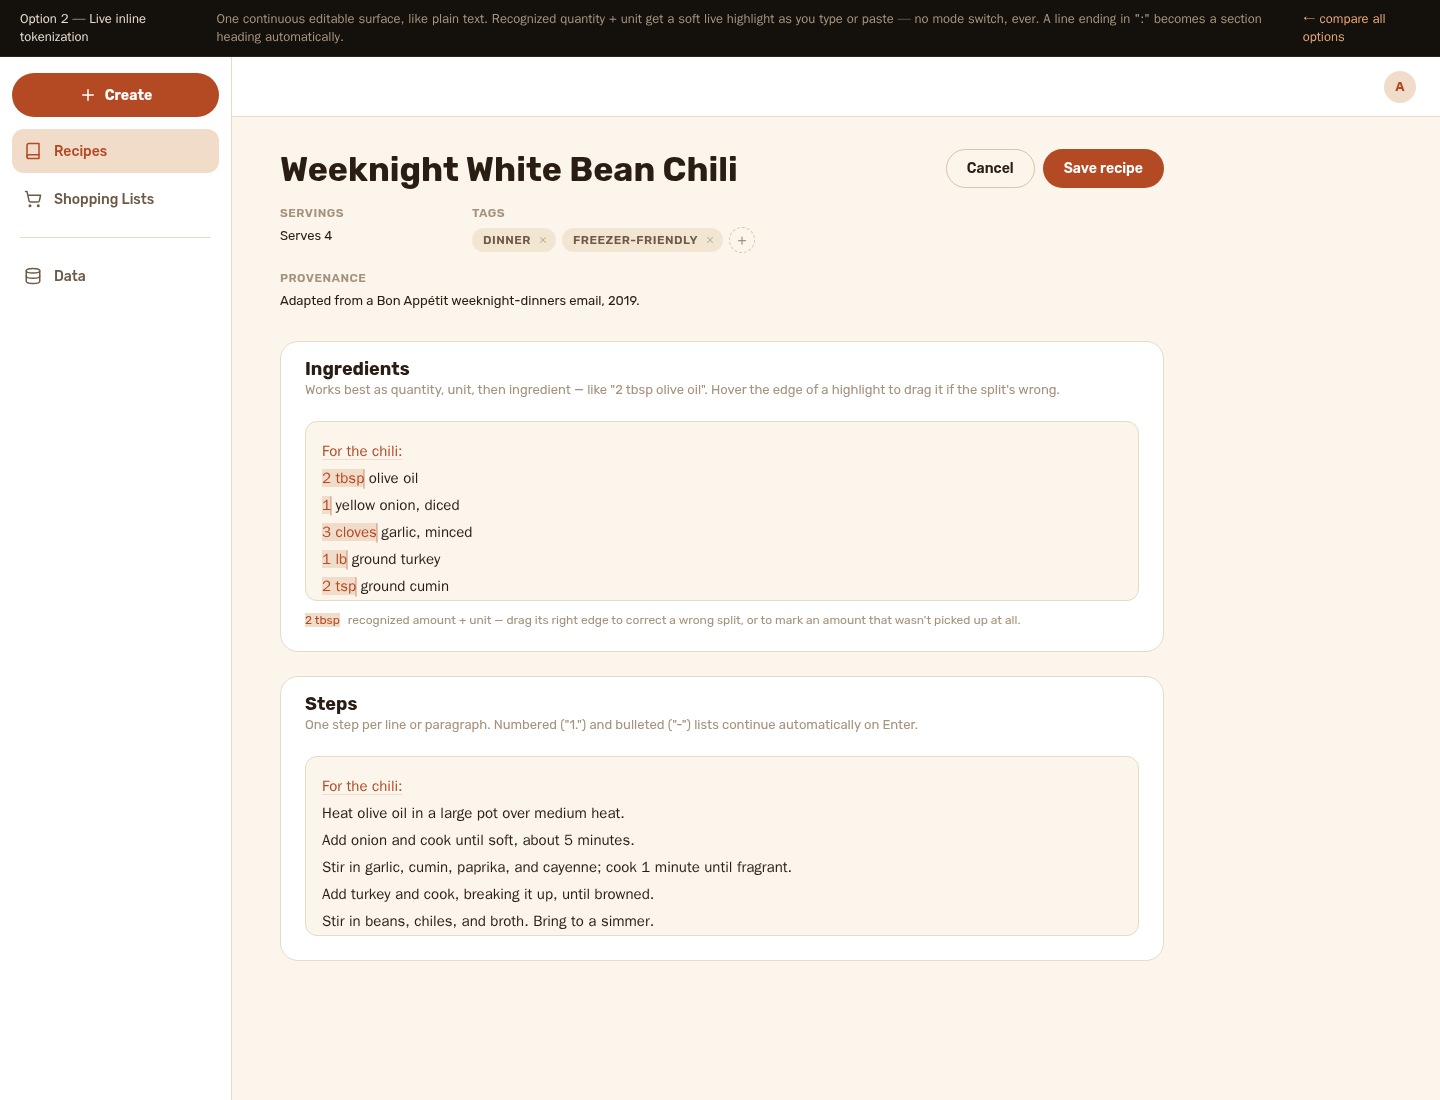
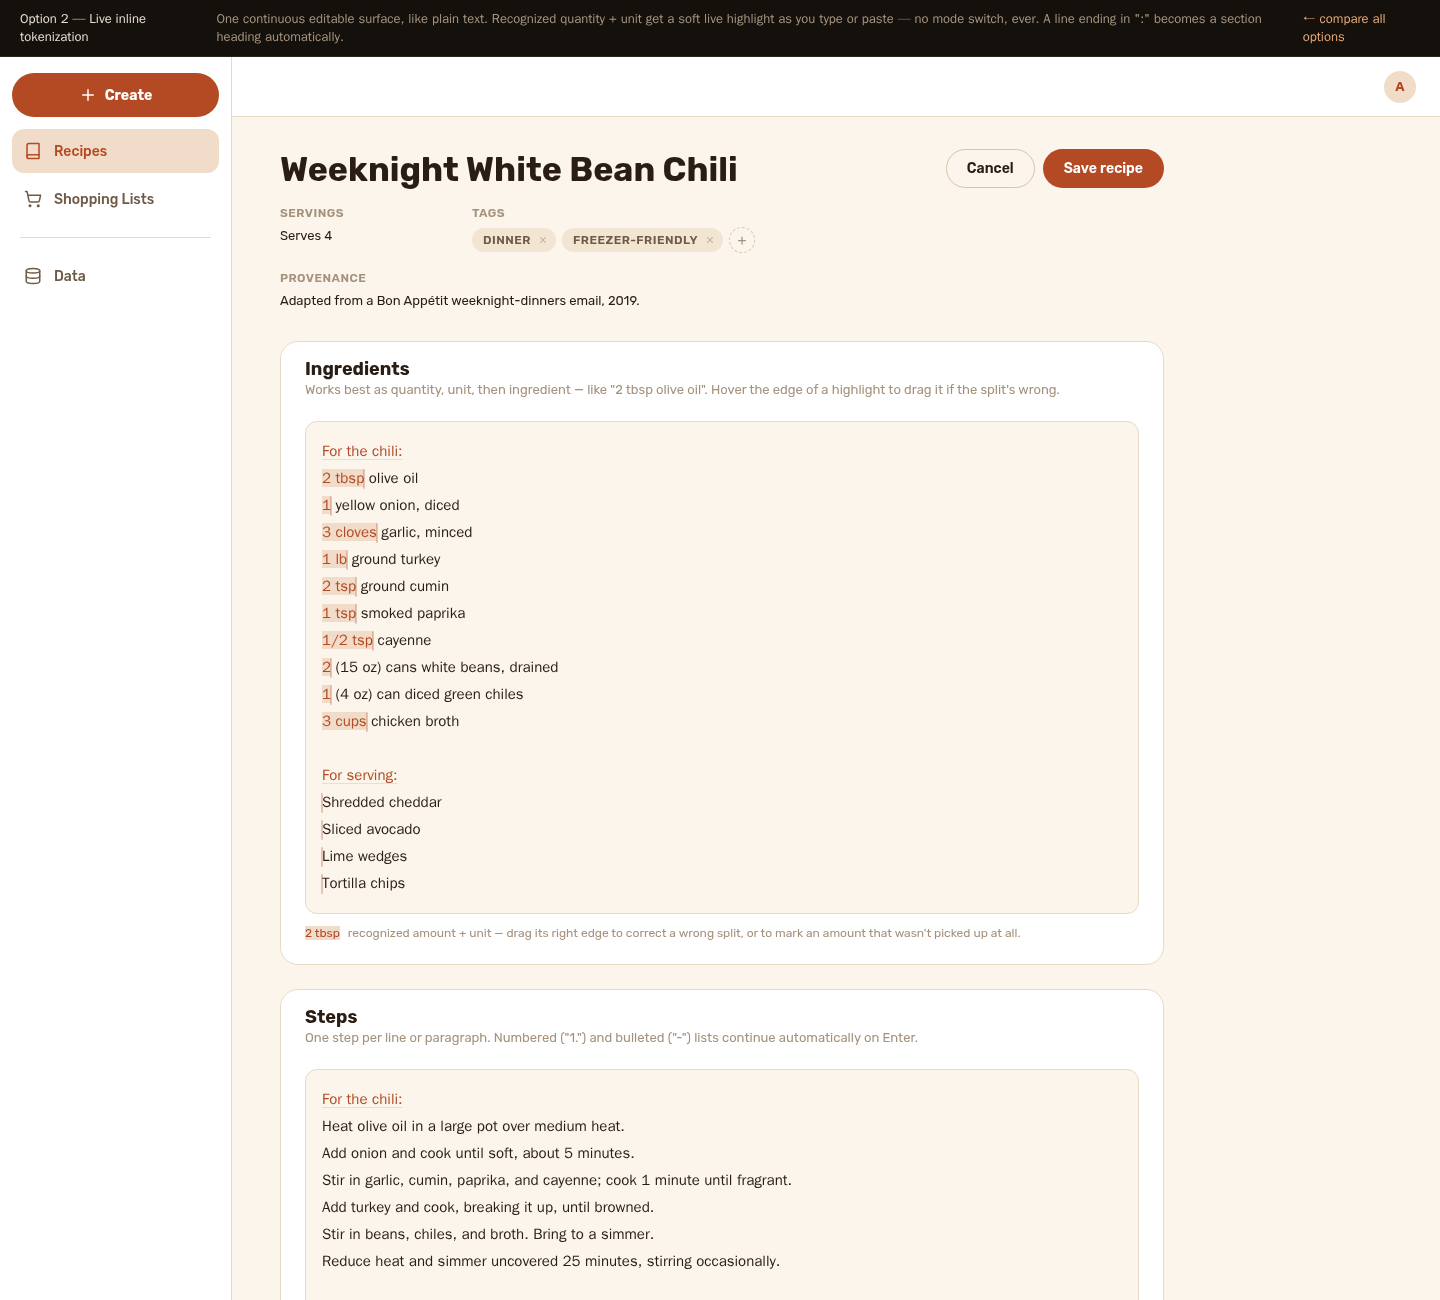
DAMN-2 mockups: auto-growing fields, responsive mobile layout
Owner feedback: no internal scrollbar on Ingredients/Steps (a small
fixed-height scrolling box hides the list from a glance) — and mockups
of how the whole entry form looks on mobile.

- Ingredients/Steps fields now grow to fit their content instead of
  scrolling internally. Required restructuring the three stacked layers:
  the textarea is normal flow again (the sizing driver, auto-grown via
  scrollHeight on every keystroke) instead of position:absolute, with
  the overlay/handle layers stacked on top via inset:0 so they still
  track its exact box with no separate height bookkeeping. Dropped the
  now-dead scroll-sync listeners this made unnecessary.
- Added a real responsive layout at the app's actual mobile breakpoint
  (640px, matching NavRail.tsx): a fixed bottom tab bar + Create FAB
  replaces the rail, matching the real component's markup/classes/
  icons; the editbar stacks (title, then fields, then Cancel/Save);
  drag-handle touch targets widen to 34px (a 10px target is fine for a
  mouse, not a fingertip — same 44px-hit-area convention the rest of
  the app already follows); the title font drops a step since
  --text-3xl bold doesn't fit a typical title at phone width.
- Added real touch support for the drag-to-adjust boundary handles —
  touchstart/touchmove/touchend/touchcancel sharing the exact same
  start/update/end drag logic mouse events use, { passive: false } so
  preventDefault can stop the page from scrolling mid-drag, plus
[…]

diff --git a/docs/features/DAMN-2-recipe-entry-and-versioning/mockups/entry-option-2-live-inline.html b/docs/features/DAMN-2-recipe-entry-and-versioning/mockups/entry-option-2-live-inline.html
@@ -122,16 +122,26 @@
    * spans. Re-rendering that layer on every keystroke never touches the real cursor,
    * because the cursor was never anything but the textarea's own.
    */
-  .token-field { position: relative; min-height: 180px; border: 1px solid var(--color-border); border-radius: var(--radius-md); background: var(--color-bg-primary); overflow: hidden; }
+  /*
+   * Grows to fit its content instead of scrolling internally (owner feedback —
+   * a small fixed-height box that scrolls hides the ingredient list from a
+   * glance). The textarea is the sizing driver: it's normal flow now, not
+   * absolutely positioned, so .token-field's own height (and therefore the
+   * overlay/handles layers stacked on top via inset:0) just follows however
+   * tall the textarea's content actually makes it — autoGrow() (in the script)
+   * keeps its explicit height in sync with scrollHeight on every keystroke.
+   */
+  .token-field { position: relative; min-height: 90px; border: 1px solid var(--color-border); border-radius: var(--radius-md); background: var(--color-bg-primary); }
   .token-field:focus-within { outline: 2px solid var(--color-focus); outline-offset: 1px; }
   .token-field .layer {
-    position: absolute; inset: 0; margin: 0; padding: var(--space-4); border: none;
+    margin: 0; padding: var(--space-4); border: none;
     font: var(--text-base)/1.8 var(--font-sans); white-space: pre-wrap; word-wrap: break-word;
-    box-sizing: border-box; overflow: auto;
+    box-sizing: border-box;
   }
+  .token-field .overlay, .token-field .handles { position: absolute; inset: 0; overflow: hidden; }
   .token-field .overlay { color: var(--color-text-primary); pointer-events: none; }
   .token-field textarea.input-layer {
-    resize: none; background: transparent;
+    display: block; width: 100%; resize: none; overflow: hidden; background: transparent;
     /* Both are needed: WebKit (Safari) can otherwise let -webkit-text-fill-color's
        UA default win over `color`, which also swallows the caret — not just the
        text — since WebKit ties caret rendering to the fill color, not `color`
@@ -181,7 +191,7 @@
    */
   .token-field .handles { pointer-events: none; }
   .tok-handle {
-    position: absolute; width: 10px; transform: translateX(-5px);
+    position: absolute; width: 10px; transform: translateX(-5px); touch-action: none;
     cursor: ew-resize; pointer-events: auto; opacity: 0.28; transition: opacity var(--dur-quick) var(--ease-out);
   }
   .tok-handle::after {
@@ -201,6 +211,57 @@
 
   .legend { display: flex; align-items: center; gap: var(--space-2); margin-top: var(--space-3); color: var(--color-text-tertiary); font-size: var(--text-xs); }
   .legend .tok-amt { font-size: var(--text-xs); }
+
+  /* ---- mobile (<=640px, matches NavRail.tsx's real MOBILE_MEDIA_QUERY cutoff) --- */
+  .tabbar { display: none; }
+  @media (max-width: 640px) {
+    .rail { display: none; }
+    .tabbar {
+      --tabbar-safe-bottom: env(safe-area-inset-bottom, 0);
+      position: fixed; left: 0; right: 0; bottom: 0; z-index: 10;
+      height: calc(62px + var(--tabbar-safe-bottom));
+      display: flex; align-items: stretch;
+      border-top: 1px solid var(--color-border); background: var(--color-bg-secondary);
+      padding-bottom: var(--tabbar-safe-bottom);
+    }
+    .tab {
+      flex: 1; display: flex; flex-direction: column; align-items: center; justify-content: center;
+      gap: 3px; color: var(--color-text-tertiary); font-weight: var(--weight-medium); font-size: 11px;
+      text-decoration: none;
+    }
+    .tab.tab-active { color: var(--color-accent); }
+    .tab svg { width: 22px; height: 22px; flex: none; }
+    .fab-wrap { position: absolute; right: var(--space-4); bottom: var(--fab-offset-bottom); }
+    .fab {
+      width: var(--fab-size); height: var(--fab-size); border: none; border-radius: var(--radius-full);
+      background: var(--color-accent); color: var(--color-text-on-accent);
+      display: flex; align-items: center; justify-content: center; cursor: pointer;
+    }
+    .fab:hover { background: var(--color-accent-hover); }
+    .fab svg { width: 24px; height: 24px; }
+
+    .app { grid-template-columns: 1fr; grid-template-areas: 'topbar' 'main'; }
+    .main {
+      max-width: 100%; padding: var(--space-5) var(--space-4);
+      /* Clears the fixed FAB the same way AppShell.module.css does — bottom
+         padding derived from the FAB's own tokens so its footprint and the
+         scroll clearance for it can't drift apart. */
+      padding-bottom: calc(var(--fab-offset-bottom) + var(--fab-size) + var(--space-4));
+    }
+    .editbar { flex-direction: column; align-items: stretch; }
+    .actions { justify-content: flex-end; margin-top: var(--space-2); }
+    /* --text-3xl bold clips or forces the input to scroll internally for a
+       normal-length recipe title on a phone-width screen — a single-line <input>
+       can't wrap the way a heading would. Full title stays in the value either
+       way (nothing is lost, same as any text input scrolling past its width),
+       this just makes a typical title actually fit. */
+    .title-input { font-size: var(--text-xl); }
+
+    /* A precise mouse pointer is comfortable with a 10px target; a fingertip
+       isn't — widen the touch hit area without changing the thin visual marker
+       (::after stays a 2px line, centered, regardless of the box it sits in). */
+    .tok-handle { width: 34px; transform: translateX(-17px); }
+  }
 </style>
 </head>
 <body>
@@ -219,6 +280,18 @@
     <div class="divider"></div>
     <a class="navItem" href="#"><svg viewBox="0 0 24 24" fill="none" stroke="currentColor" stroke-width="2" stroke-linecap="round" stroke-linejoin="round"><ellipse cx="12" cy="5" rx="9" ry="3"/><path d="M3 5v14a9 3 0 0 0 18 0V5"/><path d="M3 12a9 3 0 0 0 18 0"/></svg>Data</a>
   </nav>
+
+  <!-- Mobile-only, shown by CSS at <=640px (matches NavRail.tsx's real breakpoint) —
+       a fixed bottom tab bar with an overlapping Create FAB, replacing the rail. -->
+  <nav class="tabbar" aria-label="Primary">
+    <a class="tab tab-active" href="#"><svg viewBox="0 0 24 24" fill="none" stroke="currentColor" stroke-width="2" stroke-linecap="round" stroke-linejoin="round"><path d="M4 19.5A2.5 2.5 0 0 1 6.5 17H20"/><path d="M6.5 2H20v20H6.5A2.5 2.5 0 0 1 4 19.5v-15A2.5 2.5 0 0 1 6.5 2z"/></svg>Recipes</a>
+    <a class="tab" href="#"><svg viewBox="0 0 24 24" fill="none" stroke="currentColor" stroke-width="2" stroke-linecap="round" stroke-linejoin="round"><circle cx="8" cy="21" r="1"/><circle cx="19" cy="21" r="1"/><path d="M2.05 2.05h2l2.66 12.42a2 2 0 0 0 2 1.58h9.78a2 2 0 0 0 1.95-1.57l1.65-7.43H5.12"/></svg>Shopping</a>
+    <a class="tab" href="#"><svg viewBox="0 0 24 24" fill="none" stroke="currentColor" stroke-width="2" stroke-linecap="round" stroke-linejoin="round"><ellipse cx="12" cy="5" rx="9" ry="3"/><path d="M3 5v14a9 3 0 0 0 18 0V5"/><path d="M3 12a9 3 0 0 0 18 0"/></svg>Data</a>
+    <div class="fab-wrap">
+      <button class="fab" type="button" aria-label="Create"><svg viewBox="0 0 24 24" fill="none" stroke="currentColor" stroke-width="2" stroke-linecap="round" stroke-linejoin="round"><path d="M12 5v14"/><path d="M5 12h14"/></svg></button>
+    </div>
+  </nav>
+
   <div class="topbar"><div class="spacer"></div><div class="avatar">A</div></div>
 
   <main class="main">
@@ -449,20 +522,27 @@ For serving:
     }
   }
 
+  /** Grows the textarea to fit its content — no internal scrollbar, ever. Reset to
+   * 'auto' first so shrinking (e.g. after deleting a line) is measured correctly;
+   * scrollHeight only ever reports "how tall would this need to be," never shrinks
+   * the element on its own. */
+  function autoGrow(textarea) {
+    textarea.style.height = 'auto';
+    textarea.style.height = textarea.scrollHeight + 'px';
+  }
+
   function wireField(inputId, overlayId, seed, isIngredient, field, handlesId) {
     const input = document.getElementById(inputId);
     const overlay = document.getElementById(overlayId);
     const handles = handlesId ? document.getElementById(handlesId) : null;
     input.value = seed;
     renderOverlay(overlay, seed, isIngredient, field, handles);
+    autoGrow(input);
     // The textarea is the only editable surface — the browser owns cursor/selection
     // entirely. Re-rendering the overlay on every keystroke never touches it.
-    input.addEventListener('input', () => renderOverlay(overlay, input.value, isIngredient, field, handles));
-    // Layers are stacked, not scrolled together automatically — keep the highlight
-    // (and handle) layers' scroll position matched to what's actually being typed in.
-    input.addEventListener('scroll', () => {
-      overlay.scrollTop = input.scrollTop;
-      if (handles) handles.scrollTop = input.scrollTop;
+    input.addEventListener('input', () => {
+      autoGrow(input);
+      renderOverlay(overlay, input.value, isIngredient, field, handles);
     });
   }
 
@@ -518,26 +598,26 @@ For serving:
 
   // Dragging a boundary handle: delegated, since renderOverlay rebuilds the handle
   // DOM on every keystroke and every drag step — a per-node listener would go stale
-  // the moment anything re-renders.
+  // the moment anything re-renders. Mouse and touch share this same core logic —
+  // only how the starting handle and the live coordinate are read differs, which
+  // is exactly what's on a phone this needs: the drag itself, and the fix for the
+  // cursor artifacts, are the same gesture either way.
   let dragState = null;
-
   let dragCaptureEl = null;
 
-  document.addEventListener('mousedown', (e) => {
-    const handle = e.target.closest('.tok-handle');
-    if (!handle) return;
-    e.preventDefault();
+  function startDrag(handle) {
     dragState = { field: handle.closest('.handles').id.replace('-handles', ''), lineIndex: Number(handle.dataset.line) };
     document.body.classList.add('tok-dragging');
-    // See the .drag-capture CSS comment: keeps the pointer over one stable element
-    // for the whole drag so the cursor icon can't flicker as the handle/overlay DOM
-    // gets rebuilt underneath it on every move.
+    // See the .drag-capture CSS comment: keeps the pointer/touch over one stable
+    // element for the whole drag so the cursor icon (mouse) or scroll gesture
+    // (touch) can't get confused as the handle/overlay DOM rebuilds underneath it
+    // on every move.
     dragCaptureEl = document.createElement('div');
     dragCaptureEl.className = 'drag-capture';
     document.body.appendChild(dragCaptureEl);
-  });
+  }
 
-  document.addEventListener('mousemove', (e) => {
+  function updateDrag(clientX) {
     if (!dragState) return;
     const { field, lineIndex } = dragState;
     const input = document.getElementById(field + '-input');
@@ -549,26 +629,59 @@ For serving:
     if (!lineEl || !words.length) return;
     // Snap to the nearest word boundary, never mid-word — every real recipe line's
     // amount/ingredient split falls on a word boundary, so this keeps the gesture
-    // fast without needing sub-word precision from the user.
+    // fast without needing sub-word (or, on touch, sub-fingertip) precision.
     let best = 0, bestDist = Infinity;
     for (let b = 0; b <= words.length; b++) {
       const charOffset = b === 0 ? 0 : words[b - 1].end;
       const x = xAtOffset(lineEl, charOffset);
       if (x == null) continue;
-      const dist = Math.abs(x - e.clientX);
+      const dist = Math.abs(x - clientX);
       if (dist < bestDist) { bestDist = dist; best = b; }
     }
     setOverride(field, lineIndex, best);
     renderOverlay(overlayEl, input.value, true, field, handlesEl);
-  });
+  }
 
-  document.addEventListener('mouseup', () => {
-    if (dragState) {
-      dragState = null;
-      document.body.classList.remove('tok-dragging');
-      if (dragCaptureEl) { dragCaptureEl.remove(); dragCaptureEl = null; }
-    }
+  function endDrag() {
+    if (!dragState) return;
+    dragState = null;
+    document.body.classList.remove('tok-dragging');
+    if (dragCaptureEl) { dragCaptureEl.remove(); dragCaptureEl = null; }
+  }
+
+  document.addEventListener('mousedown', (e) => {
+    const handle = e.target.closest('.tok-handle');
+    if (!handle) return;
+    e.preventDefault();
+    startDrag(handle);
   });
+  document.addEventListener('mousemove', (e) => updateDrag(e.clientX));
+  document.addEventListener('mouseup', endDrag);
+
+  // { passive: false } is required on both — the whole point is to preventDefault
+  // so the page doesn't scroll or select text while a boundary drag is in
+  // progress, and passive listeners aren't allowed to call preventDefault at all.
+  document.addEventListener(
+    'touchstart',
+    (e) => {
+      const handle = e.target.closest('.tok-handle');
+      if (!handle) return;
+      e.preventDefault();
+      startDrag(handle);
+    },
+    { passive: false },
+  );
+  document.addEventListener(
+    'touchmove',
+    (e) => {
+      if (!dragState) return;
+      e.preventDefault();
+      updateDrag(e.touches[0].clientX);
+    },
+    { passive: false },
+  );
+  document.addEventListener('touchend', endDrag);
+  document.addEventListener('touchcancel', endDrag);
 
   // ---- Tags: tokenized chips + inline add/search, no dropdowns or modals -----
   const TAG_CANDIDATES = [
